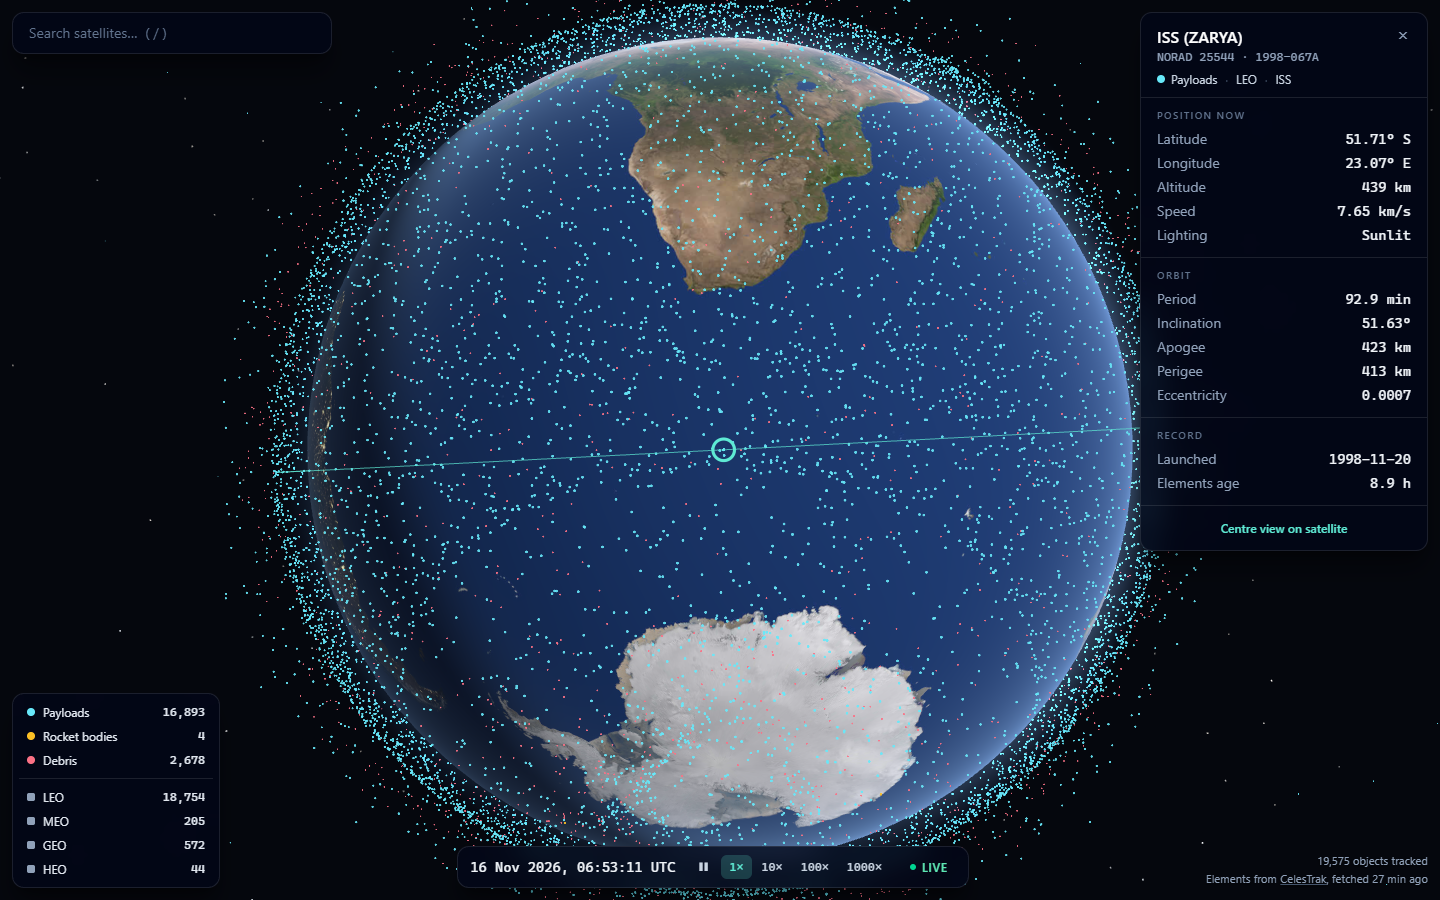
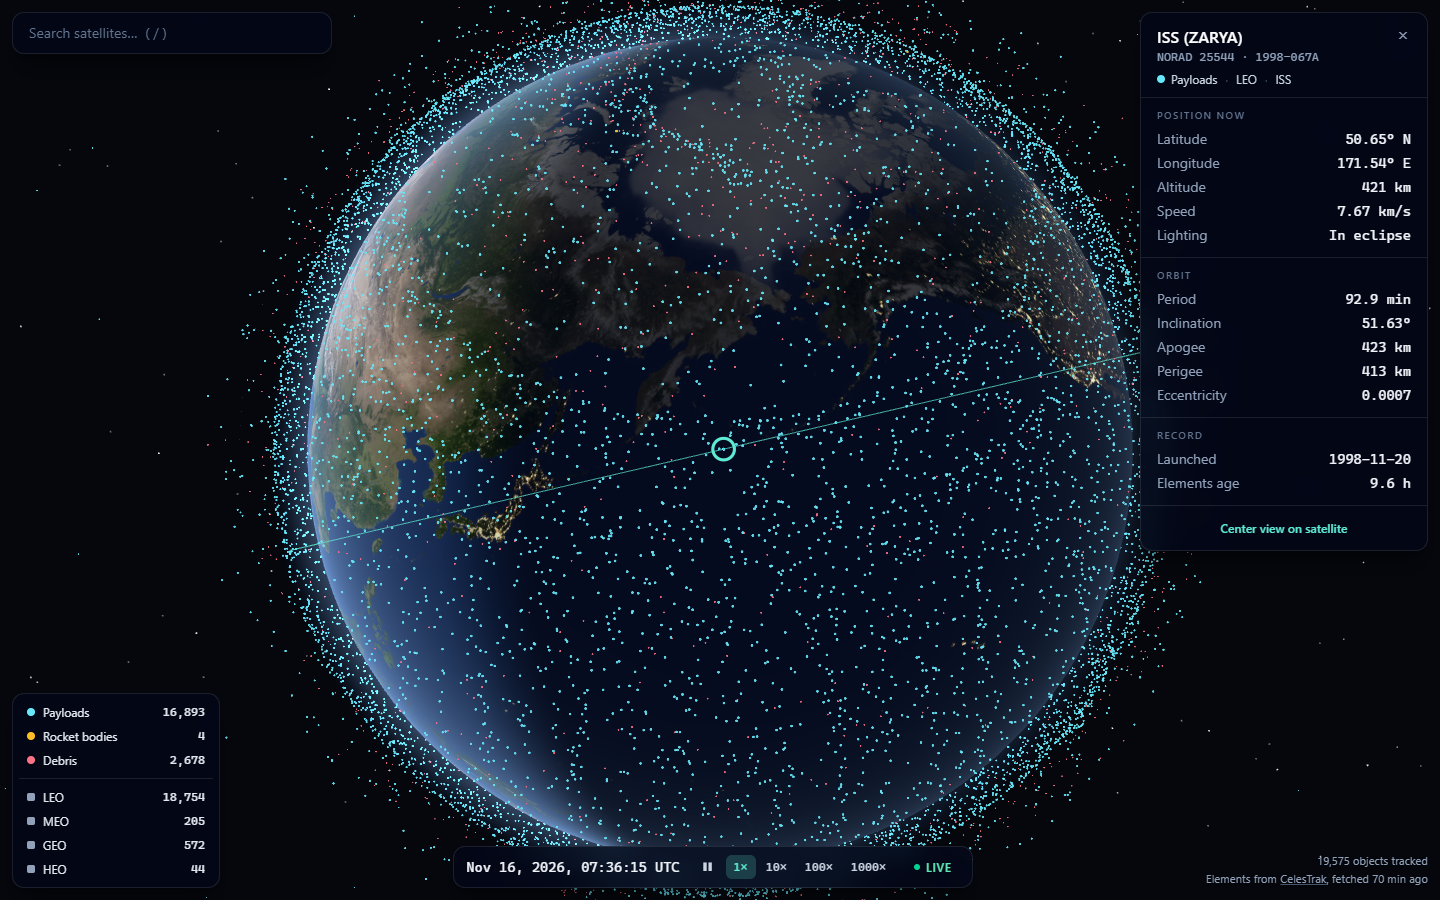
Use American English throughout and shorten the README
The code, comments, tests and UI were written in British spelling
(kilometres, centre, colour, initialise), at odds with the APIs they
call. Convert them, and switch the clock from a British date format to
"Nov 16, 2026, 06:31:07 UTC".

Rewrite the README as a shorter, plainer document: what it is, how to
run it, how it works, and how it is deployed. Retake the screenshot so
it shows the current UI text.

diff --git a/src/core/picking.test.ts b/src/core/picking.test.ts
@@ -5,11 +5,11 @@ import { type PickQuery, pickSatellite } from './picking';
 import { STATE_STRIDE } from './propagator';
 
 const viewport = { width: 800, height: 600 };
-const centre = { x: 400, y: 300 };
+const center = { x: 400, y: 300 };
 const eye = { x: 30_000, y: 0, z: 0 };
 const NEAR_SIDE = EARTH_RADIUS_KM + 500;
 
-/** A camera on the +x axis looking at the Earth's centre, working directly in kilometres. */
+/** A camera on the +x axis looking at the Earth's center, working directly in kilometers. */
 function clipMatrix(): number[] {
   const camera = new PerspectiveCamera(40, viewport.width / viewport.height, 100, 200_000);
   camera.position.set(eye.x, eye.y, eye.z);
@@ -39,7 +39,7 @@ function query(state: Float32Array, overrides: Partial<PickQuery> = {}): PickQue
     visible: new Uint8Array(count).fill(1),
     clipFromTeme: clipMatrix(),
     eye,
-    pointer: centre,
+    pointer: center,
     viewport,
     radiusPx: 10,
     ...overrides,
@@ -71,14 +71,14 @@ describe('pickSatellite', () => {
     const rows = [...Array(viewport.height).keys()];
 
     const hitColumn = columns.find(
-      (x) => pickSatellite(query(right, { pointer: { x, y: centre.y }, radiusPx: 2 })) === 0,
+      (x) => pickSatellite(query(right, { pointer: { x, y: center.y }, radiusPx: 2 })) === 0,
     );
     const hitRow = rows.find(
-      (y) => pickSatellite(query(up, { pointer: { x: centre.x, y }, radiusPx: 2 })) === 0,
+      (y) => pickSatellite(query(up, { pointer: { x: center.x, y }, radiusPx: 2 })) === 0,
     );
 
-    expect(hitColumn).toBeGreaterThan(centre.x + 20);
-    expect(hitRow).toBeLessThan(centre.y - 20);
+    expect(hitColumn).toBeGreaterThan(center.x + 20);
+    expect(hitRow).toBeLessThan(center.y - 20);
   });
 
   it('ignores satellites hidden behind the Earth', () => {

diff --git a/src/core/propagator.ts b/src/core/propagator.ts
@@ -12,7 +12,7 @@ const MS_PER_MINUTE = 60_000;
 /** Anything SGP4 places this far inside the Earth has decayed or diverged. */
 const MIN_RADIUS_SQUARED_KM = (EARTH_RADIUS_KM * 0.98) ** 2;
 
-/** Converts a catalog record back to the OMM shape satellite.js initialises from. */
+/** Converts a catalog record back to the OMM shape satellite.js initializes from. */
 export function toOmm(record: SatelliteRecord): OMMJsonObject {
   const { elements } = record;
   return {
@@ -34,7 +34,7 @@ export function toOmm(record: SatelliteRecord): OMMJsonObject {
   };
 }
 
-/** Initialises SGP4 for one satellite, or returns null if its elements are unusable. */
+/** Initializes SGP4 for one satellite, or returns null if its elements are unusable. */
 export function createSatRec(record: SatelliteRecord): SatRec | null {
   try {
     const satrec = json2satrec(toOmm(record));
@@ -78,7 +78,7 @@ function writeState(
 /**
  * Propagates a fixed set of satellites to arbitrary instants.
  *
- * Construction runs SGP4 initialisation once per satellite; `propagate` then
+ * Construction runs SGP4 initialization once per satellite; `propagate` then
  * only does the per-instant work and writes into a caller-owned buffer, so the
  * steady state allocates no typed arrays.
  */
@@ -124,7 +124,7 @@ export class Propagator {
 }
 
 /**
- * Samples one full revolution of a satellite's orbit, centred on `timeMs`, as
+ * Samples one full revolution of a satellite's orbit, centered on `timeMs`, as
  * `segments + 1` TEME positions (km). Returns null if any sample fails.
  */
 export function sampleOrbit(

diff --git a/src/ui/FilterPanel.tsx b/src/ui/FilterPanel.tsx
@@ -11,7 +11,7 @@ interface ToggleProps {
   title?: string;
   count: number;
   enabled: boolean;
-  /** Legend swatch; omitted for filters that do not affect colour. */
+  /** Legend swatch; omitted for filters that do not affect color. */
   color?: string;
   onToggle(): void;
 }
@@ -25,7 +25,7 @@ function Toggle({ label, title, count, enabled, color, onToggle }: ToggleProps) 
       title={title}
       className="group flex w-full items-center gap-2 rounded-md px-2 py-1 text-left text-xs text-slate-500 hover:bg-white/10 aria-pressed:text-slate-200"
     >
-      {/* Filled when shown, hollow when hidden. Colour-neutral filters get a neutral square. */}
+      {/* Filled when shown, hollow when hidden. Color-neutral filters get a neutral square. */}
       <span
         className={`size-2 shrink-0 border border-slate-400 bg-slate-400 group-aria-[pressed=false]:!bg-transparent ${
           color ? 'rounded-full' : 'rounded-[2px]'
@@ -38,7 +38,7 @@ function Toggle({ label, title, count, enabled, color, onToggle }: ToggleProps) 
   );
 }
 
-/** Doubles as the colour legend: each object type's swatch is its colour on the globe. */
+/** Doubles as the color legend: each object type's swatch is its color on the globe. */
 export function FilterPanel({ world }: { world: World }) {
   const filters = useApp((state) => state.filters);
   const toggleType = useApp((state) => state.toggleType);

diff --git a/src/core/kinematics.ts b/src/core/kinematics.ts
@@ -59,7 +59,7 @@ export function speed(state: Float32Array, index: number): number {
 
 /**
  * True if the straight line from `eye` to `target` passes through the Earth
- * (modelled as a sphere of equatorial radius). Both points in km, same frame.
+ * (modeled as a sphere of equatorial radius). Both points in km, same frame.
  */
 export function isOccludedByEarth(eye: Vec3, target: Vec3): boolean {
   const dx = target.x - eye.x;
@@ -67,7 +67,7 @@ export function isOccludedByEarth(eye: Vec3, target: Vec3): boolean {
   const dz = target.z - eye.z;
   const lengthSquared = dx * dx + dy * dy + dz * dz;
   if (lengthSquared === 0) return false;
-  // Parameter of the point on the segment closest to the Earth's centre.
+  // Parameter of the point on the segment closest to the Earth's center.
   const t = Math.min(1, Math.max(0, -(eye.x * dx + eye.y * dy + eye.z * dz) / lengthSquared));
   const cx = eye.x + t * dx;
   const cy = eye.y + t * dy;

diff --git a/scripts/catalog-builder.ts b/scripts/catalog-builder.ts
@@ -107,7 +107,7 @@ function messageOf(error: unknown): string {
   return error instanceof Error ? error.message : String(error);
 }
 
-/** Splits one CSV line, honouring double-quoted fields. */
+/** Splits one CSV line, honoring double-quoted fields. */
 export function parseCsvLine(line: string): string[] {
   const fields: string[] = [];
   let field = '';
@@ -245,7 +245,7 @@ async function loadMetadata(context: BuildContext, previous: Catalog | null): Pr
   try {
     context.log('Fetching SATCAT…');
     const byNoradId = parseSatcat(await context.fetchText(SATCAT_URL));
-    context.log(`  ${byNoradId.size} catalogued objects`);
+    context.log(`  ${byNoradId.size} cataloged objects`);
     return { byNoradId, fetchedAt: new Date(context.now()).toISOString() };
   } catch (error) {
     context.log(`  SATCAT unavailable, continuing without a refresh: ${messageOf(error)}`);

diff --git a/src/scene/frame.ts b/src/scene/frame.ts
@@ -5,14 +5,14 @@ import type { Vec3 } from '../core/kinematics';
 /**
  * Two coordinate systems meet in the scene:
  *
- * - Physics works in TEME, the inertial frame SGP4 outputs: kilometres,
+ * - Physics works in TEME, the inertial frame SGP4 outputs: kilometers,
  *   z through the north pole, x toward the vernal equinox.
  * - Three.js is y-up, and the camera works in Earth radii so that its
  *   distances and clip planes are small, well-conditioned numbers.
  *
  * Everything physical is drawn inside one group carrying the transform below,
  * so satellite buffers, orbit lines and the Earth are all authored in TEME
- * kilometres and nothing downstream has to think about the conversion.
+ * kilometers and nothing downstream has to think about the conversion.
  */
 const KM_TO_SCENE = 1 / EARTH_RADIUS_KM;
 

diff --git a/src/ui/InfoPanel.tsx b/src/ui/InfoPanel.tsx
@@ -13,7 +13,7 @@ import { useSimTime, useTelemetry } from './hooks';
 import { Panel } from './Panel';
 
 /**
- * SGP4 loses roughly a kilometre or more of accuracy per day away from the
+ * SGP4 loses roughly a kilometer or more of accuracy per day away from the
  * epoch of its elements. Past this, the position shown is not trustworthy.
  */
 const STALE_ELEMENTS_MS = 14 * 86_400_000;
@@ -131,7 +131,7 @@ export function InfoPanel({ world, index }: { world: World; index: number }) {
           onClick={() => useApp.getState().focusSelected()}
           className="w-full rounded-lg px-3 py-1.5 text-xs font-medium text-accent hover:bg-white/10"
         >
-          Centre view on satellite
+          Center view on satellite
         </button>
       </div>
     </Panel>

diff --git a/src/sim/Simulation.ts b/src/sim/Simulation.ts
@@ -72,7 +72,7 @@ export class Simulation {
   private requestSentAt = 0;
   private lastClock: Clock | null = null;
 
-  /** Starts a worker, initialises SGP4 for every satellite, and resolves once it is ready. */
+  /** Starts a worker, initializes SGP4 for every satellite, and resolves once it is ready. */
   static start(
     satellites: SatelliteRecord[],
     worker: SimWorker = spawnWorker(),
@@ -148,7 +148,7 @@ export class Simulation {
     this.worker.terminate();
   }
 
-  /** Real milliseconds between refreshes needed to honour the staleness budget. */
+  /** Real milliseconds between refreshes needed to honor the staleness budget. */
   private refreshIntervalMs(rate: number): number {
     return MAX_STALENESS_SIM_MS / Math.abs(rate);
   }

diff --git a/src/scene/CameraRig.tsx b/src/scene/CameraRig.tsx
@@ -9,7 +9,7 @@ import { EARTH_RADIUS_KM } from '../core/constants';
 import { extrapolatePosition, hasState, type Vec3 } from '../core/kinematics';
 import { directionToWorld } from './frame';
 
-// Distances from the Earth's centre, in Earth radii.
+// Distances from the Earth's center, in Earth radii.
 const MIN_DISTANCE = 1.12;
 const MAX_DISTANCE = 40;
 const INITIAL_DISTANCE = 3.6;
@@ -84,7 +84,7 @@ function advanceFlight(
 }
 
 /**
- * Orbit controls around the Earth's centre, plus a fly-to when a satellite is
+ * Orbit controls around the Earth's center, plus a fly-to when a satellite is
  * selected. The camera lives in the inertial frame, so left alone it watches
  * the Earth rotate rather than rotating with it.
  */

diff --git a/src/core/astro.ts b/src/core/astro.ts
@@ -12,7 +12,7 @@ export function gmst(timeMs: number): number {
   return gstime(julianDate(timeMs));
 }
 
-/** Unit vector from the Earth's centre toward the Sun, inertial frame. */
+/** Unit vector from the Earth's center toward the Sun, inertial frame. */
 export function sunDirection(timeMs: number, out: Vec3): Vec3 {
   const { rsun } = sunPos(julianDate(timeMs));
   const length = Math.hypot(rsun.x, rsun.y, rsun.z);
@@ -27,7 +27,7 @@ export interface GroundPoint {
   latitude: number;
   /** Degrees, east positive, in (−180, 180]. */
   longitude: number;
-  /** Kilometres above the WGS-84 ellipsoid. */
+  /** Kilometers above the WGS-84 ellipsoid. */
   altitudeKm: number;
 }
 

diff --git a/src/ui/format.ts b/src/ui/format.ts
@@ -1,4 +1,4 @@
-const utcFormat = new Intl.DateTimeFormat('en-GB', {
+const utcFormat = new Intl.DateTimeFormat('en-US', {
   timeZone: 'UTC',
   year: 'numeric',
   month: 'short',
@@ -6,12 +6,13 @@ const utcFormat = new Intl.DateTimeFormat('en-GB', {
   hour: '2-digit',
   minute: '2-digit',
   second: '2-digit',
-  hour12: false,
+  // Not `hour12: false`, which makes en-US print midnight as 24:00.
+  hourCycle: 'h23',
 });
 
 const integerFormat = new Intl.NumberFormat('en-US', { maximumFractionDigits: 0 });
 
-/** `16 Nov 2026, 06:31:07` */
+/** `Nov 16, 2026, 06:31:07` */
 export function formatUtc(timeMs: number): string {
   return utcFormat.format(timeMs);
 }

diff --git a/src/core/picking.ts b/src/core/picking.ts
@@ -9,11 +9,11 @@ export interface PickQuery {
   /** Non-zero where a satellite is currently drawn. */
   visible: Uint8Array;
   /**
-   * Column-major 4×4 matrix taking TEME kilometres to clip space
+   * Column-major 4×4 matrix taking TEME kilometers to clip space
    * (projection × view × model), as Three.js stores matrices.
    */
   clipFromTeme: ArrayLike<number>;
-  /** Camera position in TEME kilometres. */
+  /** Camera position in TEME kilometers. */
   eye: Vec3;
   /** Pointer position in CSS pixels, relative to the viewport's top-left. */
   pointer: { x: number; y: number };
